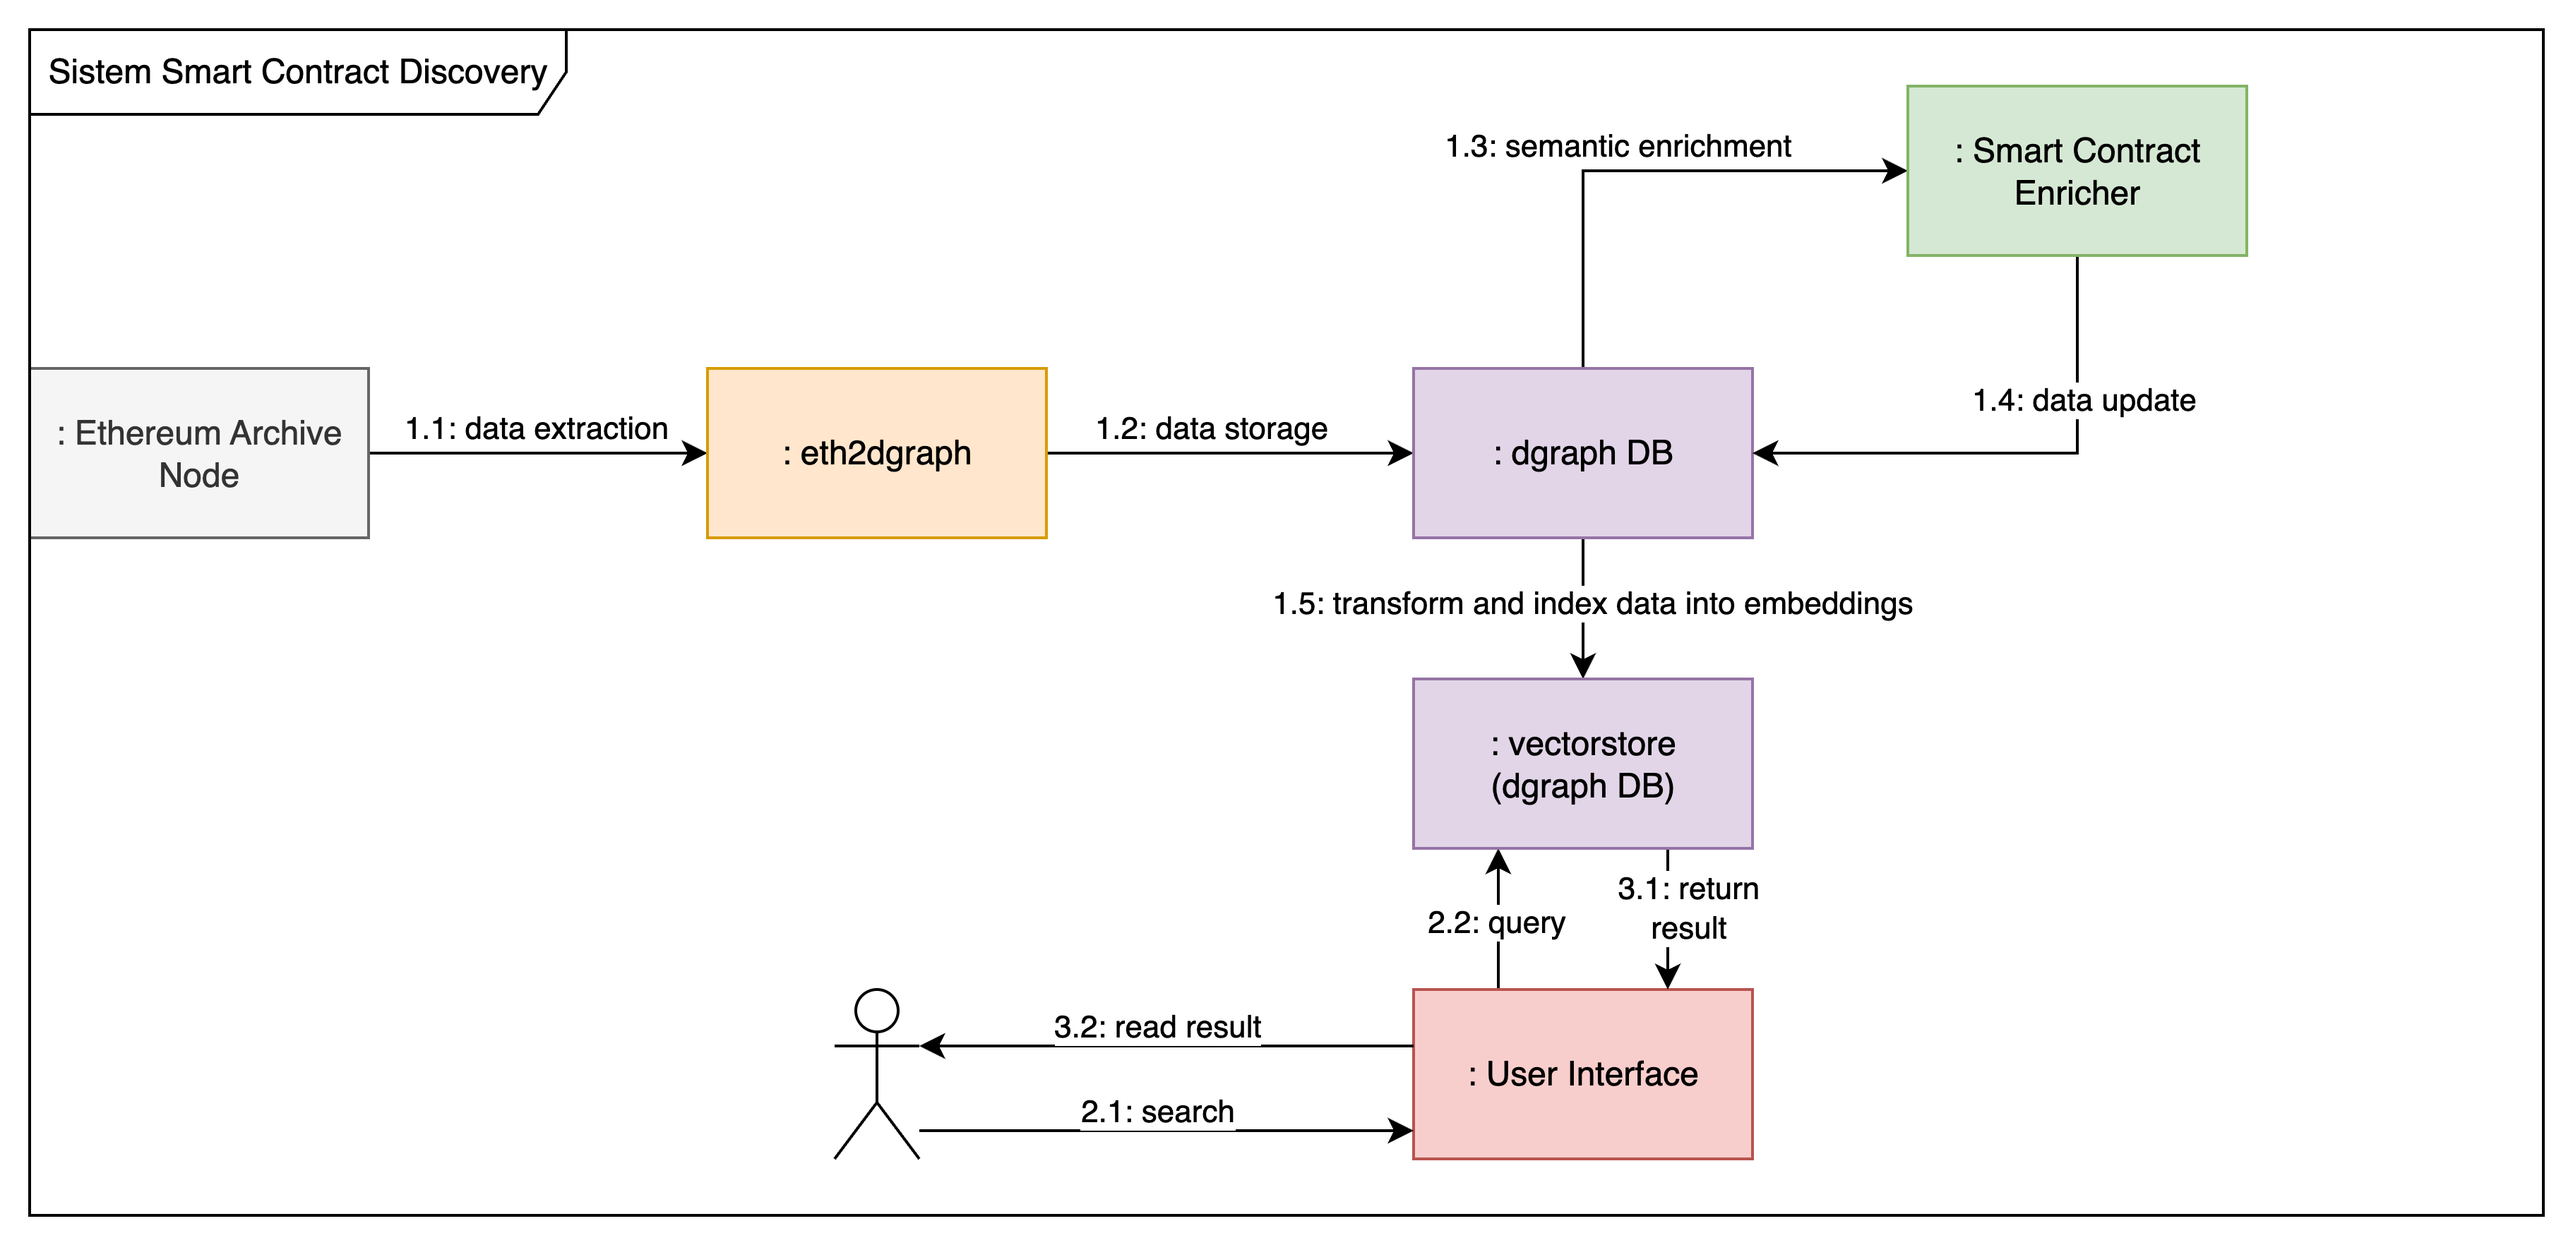
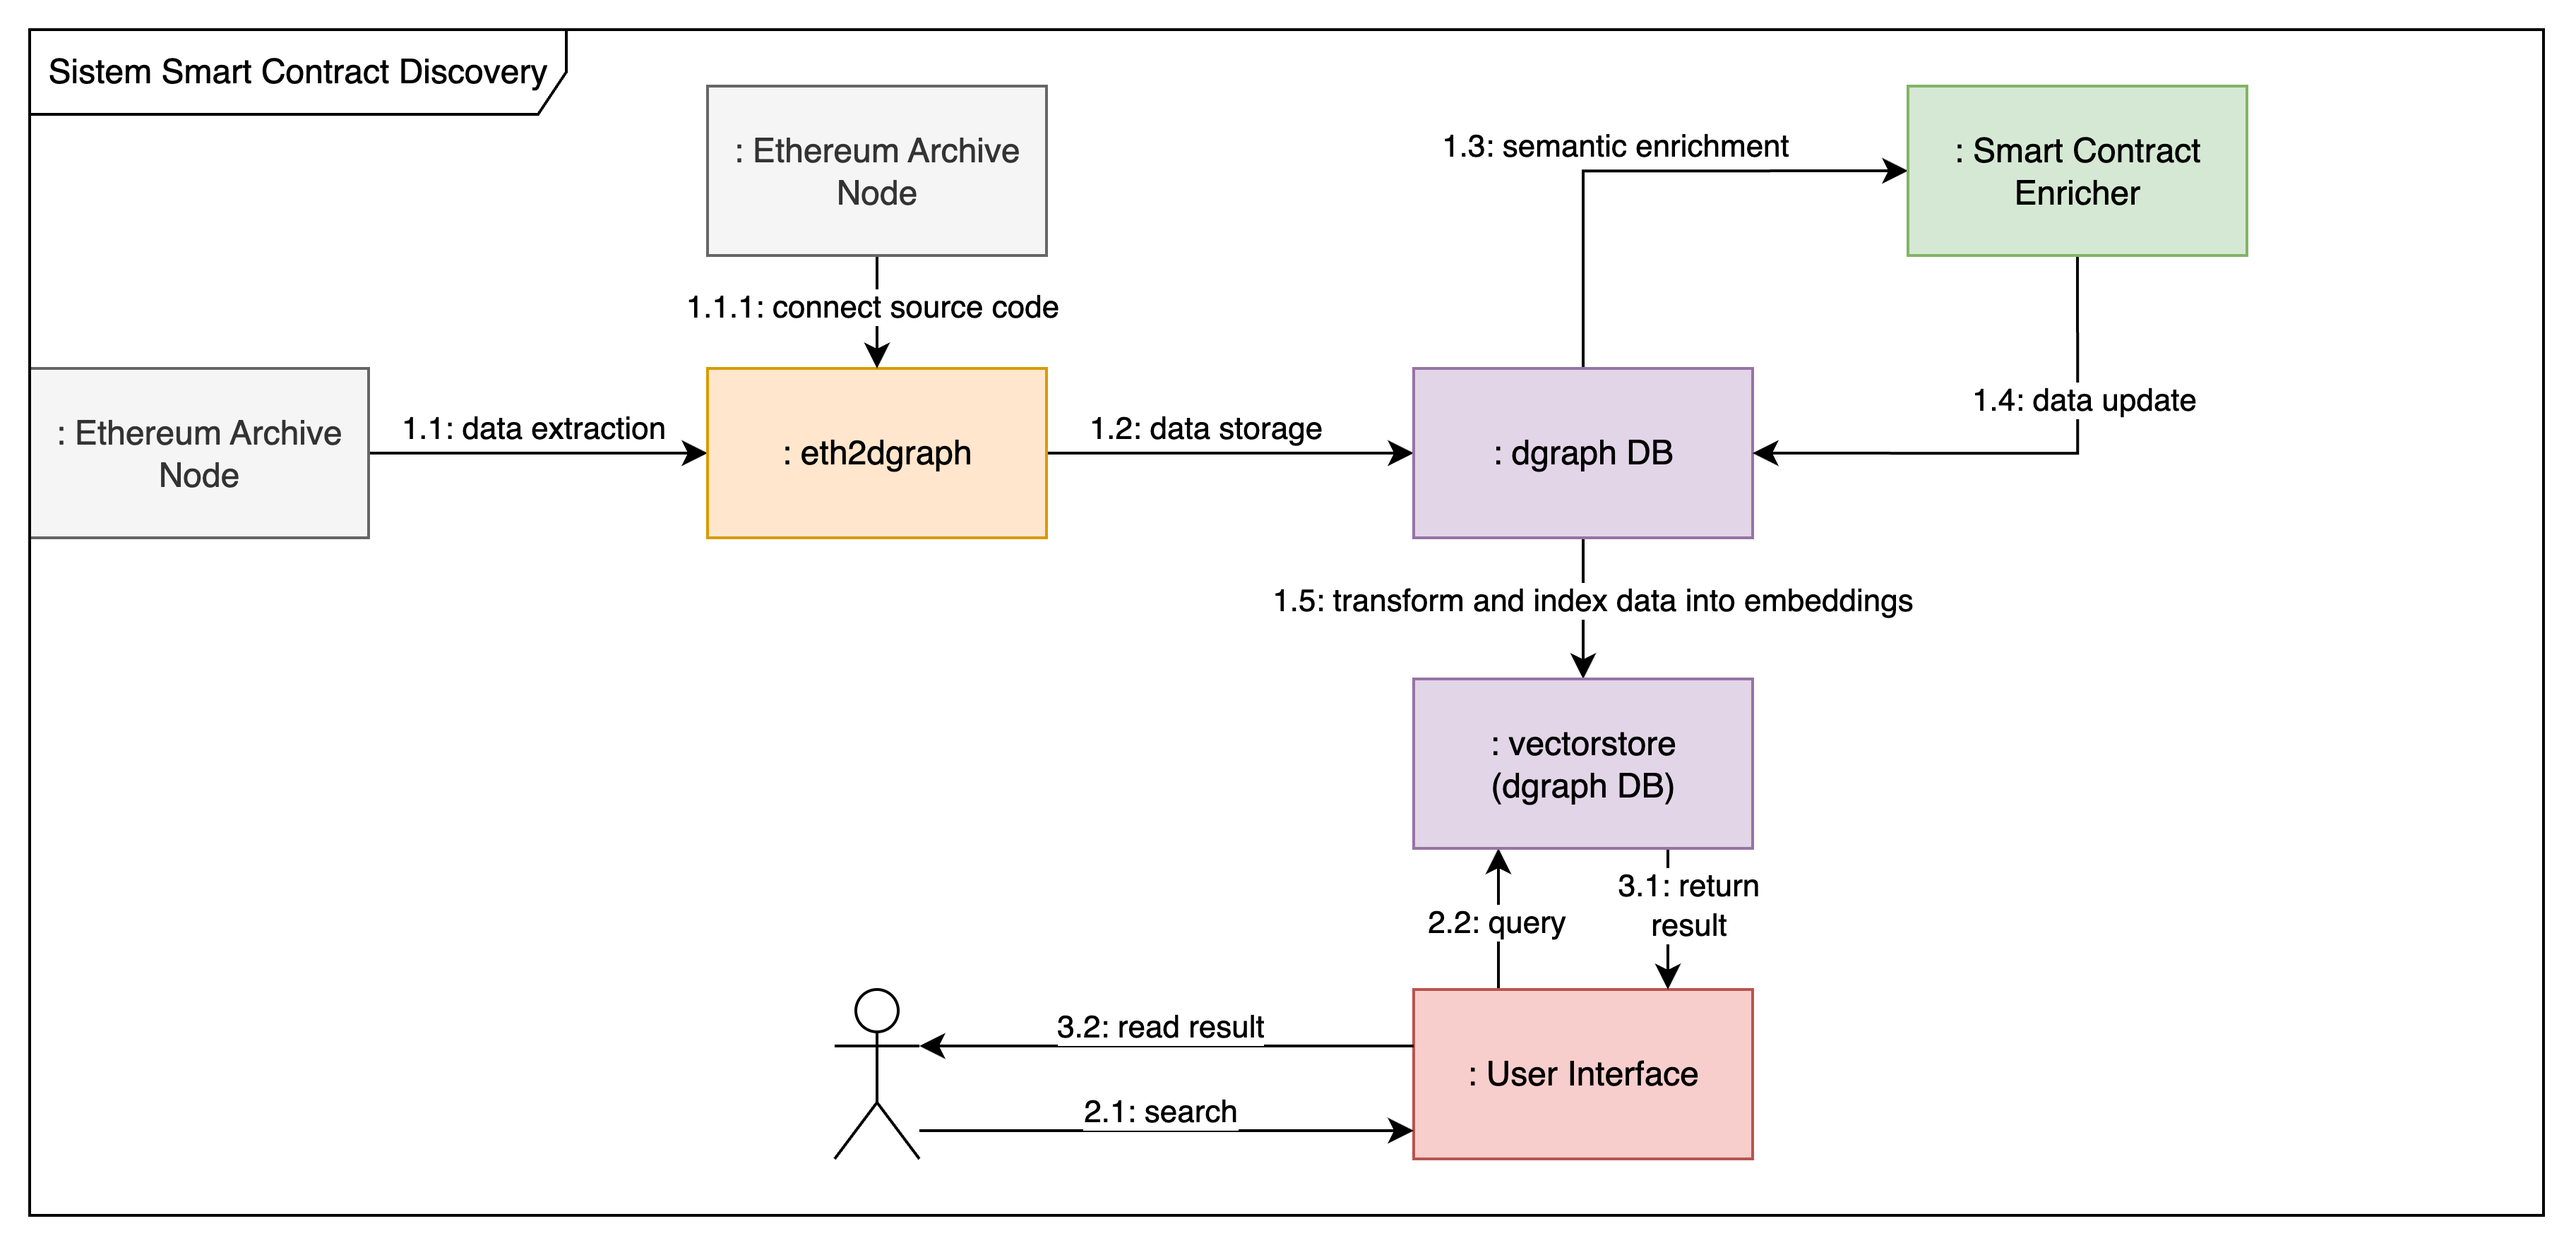
revised (doc): source code connection

diff --git a/src/chapters/ta/chapter-3/01-analisis/03-analisis-kebutuhan-sistem.tex b/src/chapters/ta/chapter-3/01-analisis/03-analisis-kebutuhan-sistem.tex
@@ -33,7 +33,7 @@ Solusi yang akan dikembangkan adalah sebuah sistem Smart Contract Discovery yang
 
 % Ethereum Archive Node → eth2dgraph (ekstraksi) → Dgraph (penyimpanan) → LLM (semantic enrichment) → Dgraph (update) → RAG (query).  
 
-Gambar \ref{image:komponen-sistem} dan gambar \ref{image:layer-arsitektur} menunjukkan gambaran umum alur kerja sistem. Sistem ini akan melakukan ekstraksi data dari Ethereum Archive Node menggunakan \textit{eth2dgraph} dan menyimpannya dalam Dgraph. Setelah itu, sistem akan melakukan \textit{semantic enrichment} menggunakan LLM untuk memperkaya deskripsi dan metadata Smart Contract, lalu memperbarui data di Dgraph. Sebelum data dapat dilakukan query, akan dilakukan indexing data menjadi bentuk vector embeddings dan disimpan di dalam Vector Database. Terakhir, sistem akan menggunakan \textit{cosine similarity} atau disebut juga \textit{semantic similarity} untuk melakukan pencarian berdasarkan kebutuhan pengguna.
+Gambar \ref{image:komponen-sistem} dan gambar \ref{image:layer-arsitektur} menunjukkan gambaran umum alur kerja sistem. Sistem ini akan melakukan ekstraksi data dari Ethereum Archive Node menggunakan eth2dgraph dan menyimpannya dalam Dgraph. Pada proses ini juga eth2dgraph menyambungkan \textit{source code} dari Smart Contracts kepada data \textit{deployment}. Setelah itu, sistem akan melakukan \textit{semantic enrichment} menggunakan LLM untuk memperkaya deskripsi dan metadata Smart Contract, lalu memperbarui data di Dgraph. Sebelum data dapat dilakukan query, akan dilakukan indexing data menjadi bentuk vector embeddings dan disimpan di dalam Vector Database. Terakhir, sistem akan menggunakan \textit{cosine similarity} atau disebut juga \textit{semantic similarity} untuk melakukan pencarian berdasarkan kebutuhan pengguna.
 
 \subsubsection{Proses Semantic Enrichment}
 
